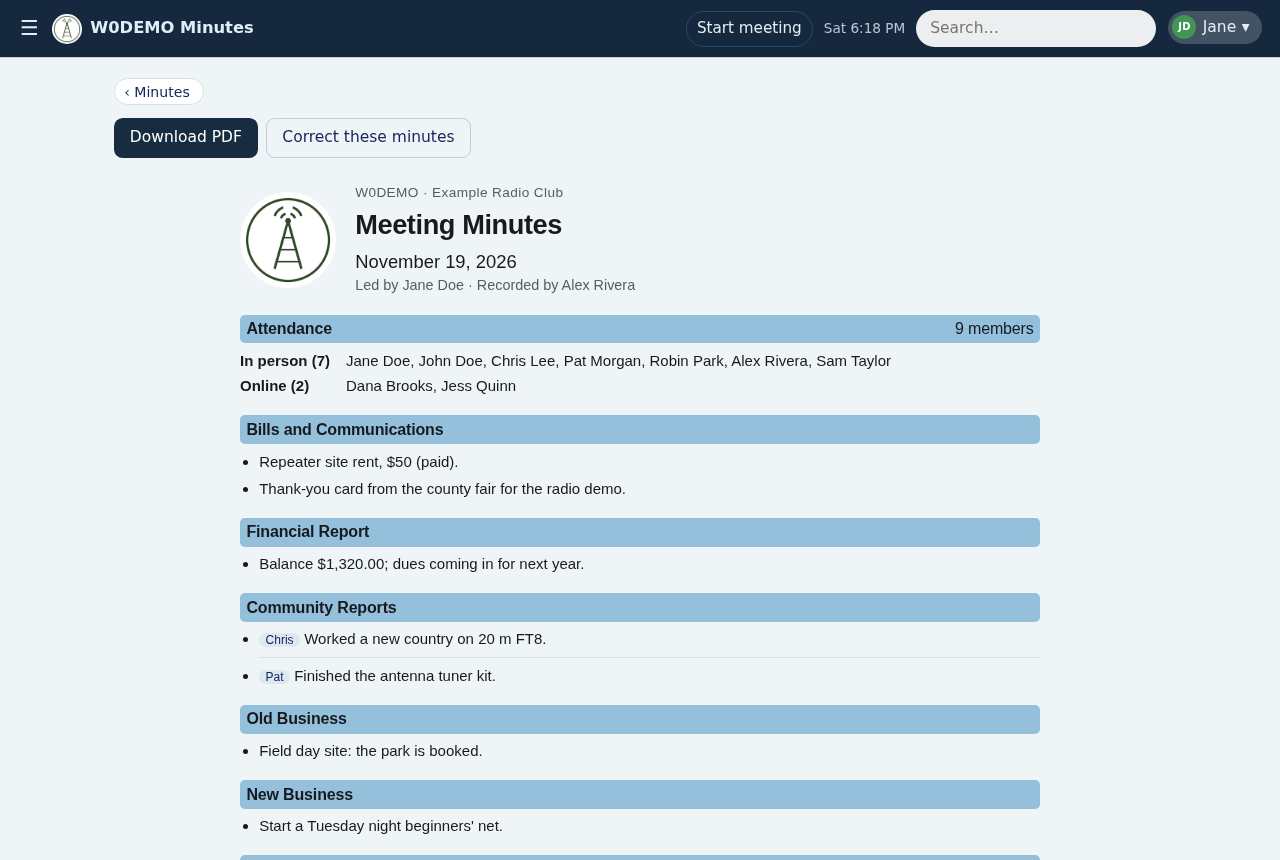
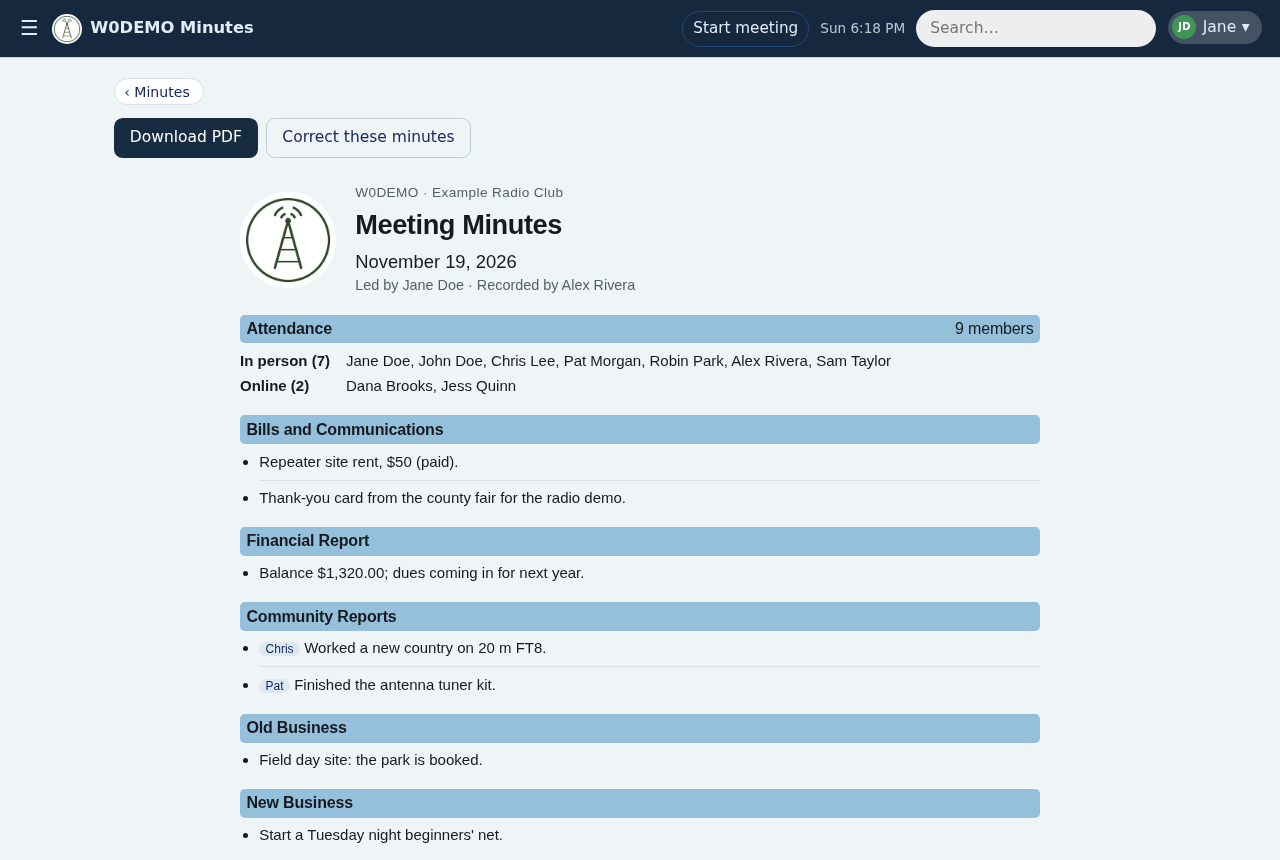
A faint line between the items of every list section in minutes made from now on
Minutes made from now on carry layout 2 in their snapshot (snapshot.View.lines) and get ul.items lined in every
section; minutes already published keep the line in Community Reports only, as 1.2 drew them.

Claude-Session: https://claude.ai/code/session_015owk5Uy8uGwmem7sSbAMdS

Changed region(s): [[0.1875, 0.5442, 0.8125, 1.0], [0.5312, 0.0, 0.6562, 0.0605]]

diff --git a/src/club_minutes/static/minutes.css b/src/club_minutes/static/minutes.css
@@ -40,8 +40,9 @@ body.pdf svg.qr { width: 1.8cm; }
 .qrcap b, sup.qrn { color: var(--text, #123); font-weight: 700; }
 sup.qrn { font-size: .7em; margin-left: .1em; }
 body.pdf .qrcode { width: 2.2cm; } body.pdf .qrcap { font-size: 7pt; }
-/* A faint line between community reports (Jim, 2026-11-20): one report can run to lists, links, codes and pictures */
-.minutes ul.reports > li + li { border-top: 1px solid var(--border, #d7e1e5); padding-top: .4rem; margin-top: .4rem; }
+/* A faint line between items (Jim, 2026-11-20/22): one item can run to lists, links, codes and pictures. reports: 1.2's
+   minutes, Community Reports only (1.1's have none); lined: every section, minutes made since (snapshot.View.lines) */
+.minutes ul.reports > li + li, .minutes ul.lined > li + li { border-top: 1px solid var(--border, #d7e1e5); padding-top: .4rem; margin-top: .4rem; }
 /* Quotes and code in formatted text (richtext.py; Jim, 2026-11-20: a drafted email, a command) */
 blockquote.rquote { margin: .3rem 0; padding: .1rem .7rem; background: var(--surface-2, #eef2f4); border: 1px solid var(--border, #c5d1d6); border-left: 3px solid var(--border, #c5d1d6); border-radius: .5rem; color: var(--text, #111); }
 blockquote.rquote p { margin: .25rem 0; }

diff --git a/src/club_minutes/templates/_minutes.html b/src/club_minutes/templates/_minutes.html
@@ -25,7 +25,7 @@
     {% if items or (sec == 'Upcoming Chow' and v.chow) %}
     <h2>{{ sec }}</h2>
     {% if sec == 'Upcoming Chow' and not items %}<p class="muted">See the attached chow list.</p>{% endif %}
-    <ul class="items {{ 'reports' if sec == 'Community Reports' }}">
+    <ul class="items {{ 'lined' if v.lines else 'reports' if sec == 'Community Reports' and not v.old }}">
       {% for it in items %}<li>{% if v.old %}{{ v.shown(it)|linkify }}{% if it.member and not pdf %} <a class="who" href="/members/{{ it.member }}">{{ v.short(it.member) }}</a>{% endif %}{% elif it.member %}{% if pdf %}<span class="who">{{ v.shown_name(it.member) }}</span>{% else %}<a class="who" href="/members/{{ it.member }}">{{ v.shown_name(it.member) }}</a>{% endif %} {{ v.unnamed(v.shown(it), it.member)|rich(pdf) }}{% else %}{{ v.shown(it)|rich(pdf) }}{% endif %}{{ pics(it.pictures, pdf, "Picture with " ~ (v.shown_name(it.member) if it.member else "this item")) }}</li>{% endfor %}
     </ul>
     {% endif %}

diff --git a/src/club_minutes/snapshot.py b/src/club_minutes/snapshot.py
@@ -7,7 +7,8 @@ matter (Meeting.shown) that the page and the PDF read, and a draft has none and 
     heading, label: the club's heading line and its label    links: [{label, url}] shown in the minutes
     dates: {document, list, day}: strftime formats
     logo: the logo kept (branding.keep_logo; "": the plain one)   backing: what went behind it   colours: {main, bar}
-    layout: 1 for minutes made before 1.2 (set by the upgrade): their reports are drawn as 1.1 drew them
+    layout: 1 for minutes made before 1.2 (set by the upgrade): their reports are drawn as 1.1 drew them;
+        none for 1.2's (a line between community reports); 2 from 1.3 on: a line between the items of every section (View.lines)
 """
 from __future__ import annotations
 
@@ -33,7 +34,7 @@ def take(club, m) -> dict:
             "label": club.label,
             "links": [{"label": ln.get("label", ""), "url": ln.get("url", "")} for ln in club.links if ln.get("minutes") is not False],
             "dates": {k: DATES[k] for k in FORMATS},
-            "logo": branding.keep_logo(), "backing": branding.backing(), "colours": branding.colours()}
+            "logo": branding.keep_logo(), "backing": branding.backing(), "colours": branding.colours(), "layout": 2}
 
 
 def heading(club) -> str:
@@ -92,6 +93,11 @@ class View:
     def old(self):
         """Minutes from before 1.2: each report as typed (web addresses linked, no formatting), its short name after it."""
         return self.s.get("layout") == 1
+
+    @property
+    def lines(self):
+        """A faint line between the items of every section (Jim, 2026-11-22): minutes made before it keep their look."""
+        return not self.m.shown or self.s.get("layout") == 2
 
     def short(self, mid):
         return n["short"] if (n := self._n(mid)) else self.club.short(mid)

diff --git a/tests/test_snapshot.py b/tests/test_snapshot.py
@@ -177,10 +177,24 @@ def test_minutes_from_before_1_2_keep_1_1s_report_layout(tmp_path, monkeypatch):
     page = c.get(f"/meetings/{SLUG}").text
     assert "Sam K - net at *8pm` on " in page and 'href="https://example.org"' in page  # as typed: no pill first, no Markdown
     assert page.index("Sam K - net") < page.index('class="who"')  # the name after the report, as 1.1 had it
+    assert "items reports" not in page and "items lined" not in page  # and no line between items: 1.2 brought it
     corrections.correct(a, SLUG, "roe", "Typo", 1, edit(a.by_slug[SLUG], visitors=2), notice=False)
-    assert "layout" not in a.by_slug[SLUG].shown and corrections.load_version(a, SLUG, 1).shown["layout"] == 1
+    assert a.by_slug[SLUG].shown["layout"] == 2 and corrections.load_version(a, SLUG, 1).shown["layout"] == 1
     page = c.get(f"/meetings/{SLUG}").text  # version 2: the pill first, the typed name left off
     assert page.index('class="who"') < page.index("net at") and "Sam K - net" not in page
+
+
+def test_only_minutes_made_now_get_a_line_between_every_sections_items(tmp_path, monkeypatch):
+    """Jim, 2026-11-22: the line between items in every section leaves minutes made before it as they were."""
+    a, c = web_as(tmp_path, monkeypatch, "n0call")
+    m = a.by_slug[SLUG]
+    m.shown = snapshot.take(a.club, m)
+    del m.shown["layout"]  # as 1.2 made it: lines in Community Reports only
+    m.save(a.root)
+    a.reload()
+    assert 'class="items lined"' not in c.get(f"/meetings/{SLUG}").text
+    stamp(a)  # made today
+    assert 'class="items lined"' in c.get(f"/meetings/{SLUG}").text
 
 
 def test_published_minutes_keep_their_logo_and_colours_and_a_correction_takes_todays(tmp_path, monkeypatch):

diff --git a/tests/test_mobile.py b/tests/test_mobile.py
@@ -351,7 +351,7 @@ def test_a_name_after_a_minutes_line_never_splits(engine):
     line = ("Took his new antenna down since it got into the neighbor's TV, then put an 80m Hamstick on his jeep "
             '<a class="who" href="/members/n0rich">Rich S</a>')
     url = "https://example.org/a/very/long/address/without/any/spaces/at/all/to/break/at/minutes.pdf"
-    html = f'<style>{css}</style><article class="minutes"><ul class="items reports"><li>{line}</li><li>See <a href="{url}">{url}</a></li></ul></article>'
+    html = f'<style>{css}</style><article class="minutes"><ul class="items lined"><li>{line}</li><li>See <a href="{url}">{url}</a></li></ul></article>'
     with sync_api.sync_playwright() as p:
         try:
             browser = getattr(p, engine).launch()

diff --git a/CHANGELOG.md b/CHANGELOG.md
@@ -6,8 +6,12 @@ Versions follow [semantic versioning](https://semver.org): the first number goes
 
 ## Unreleased
 
+### Changed
+- In minutes made from now on, a faint line separates the items in every section, as it did in Community Reports, on the page and in the PDF. Minutes already published look as they did.
+
 ### Fixed
 - On iPhones, **Download PDF** opened the PDF in place of the minutes (or, in Firefox, did nothing) instead of saving it.
+- Minutes from before 1.2 no longer show a line between community reports: they look as they did when they were made.
 
 ## 1.2.0 (2026-11-22)
 
